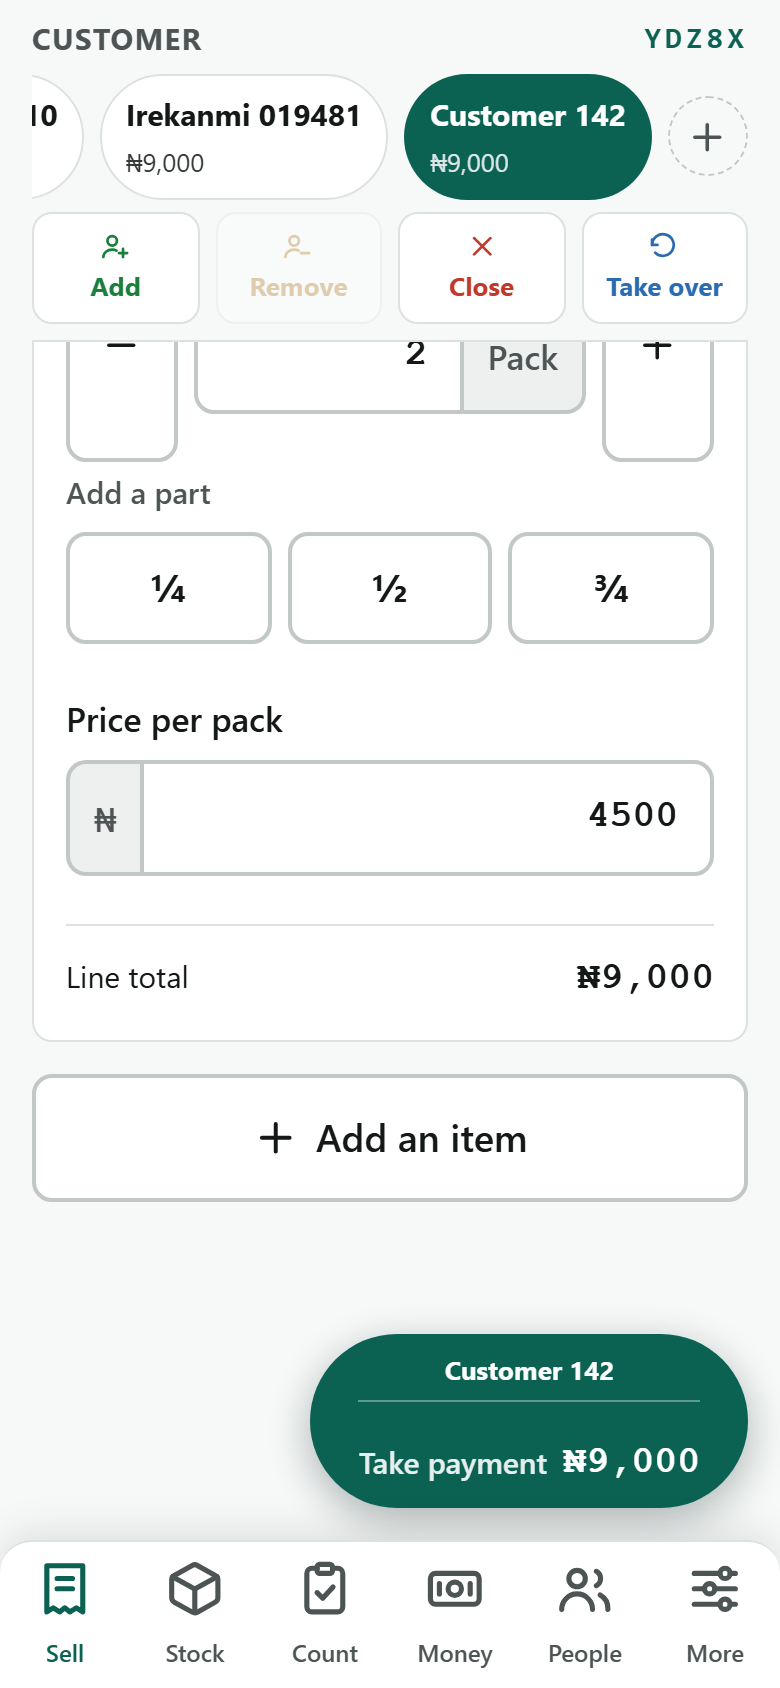
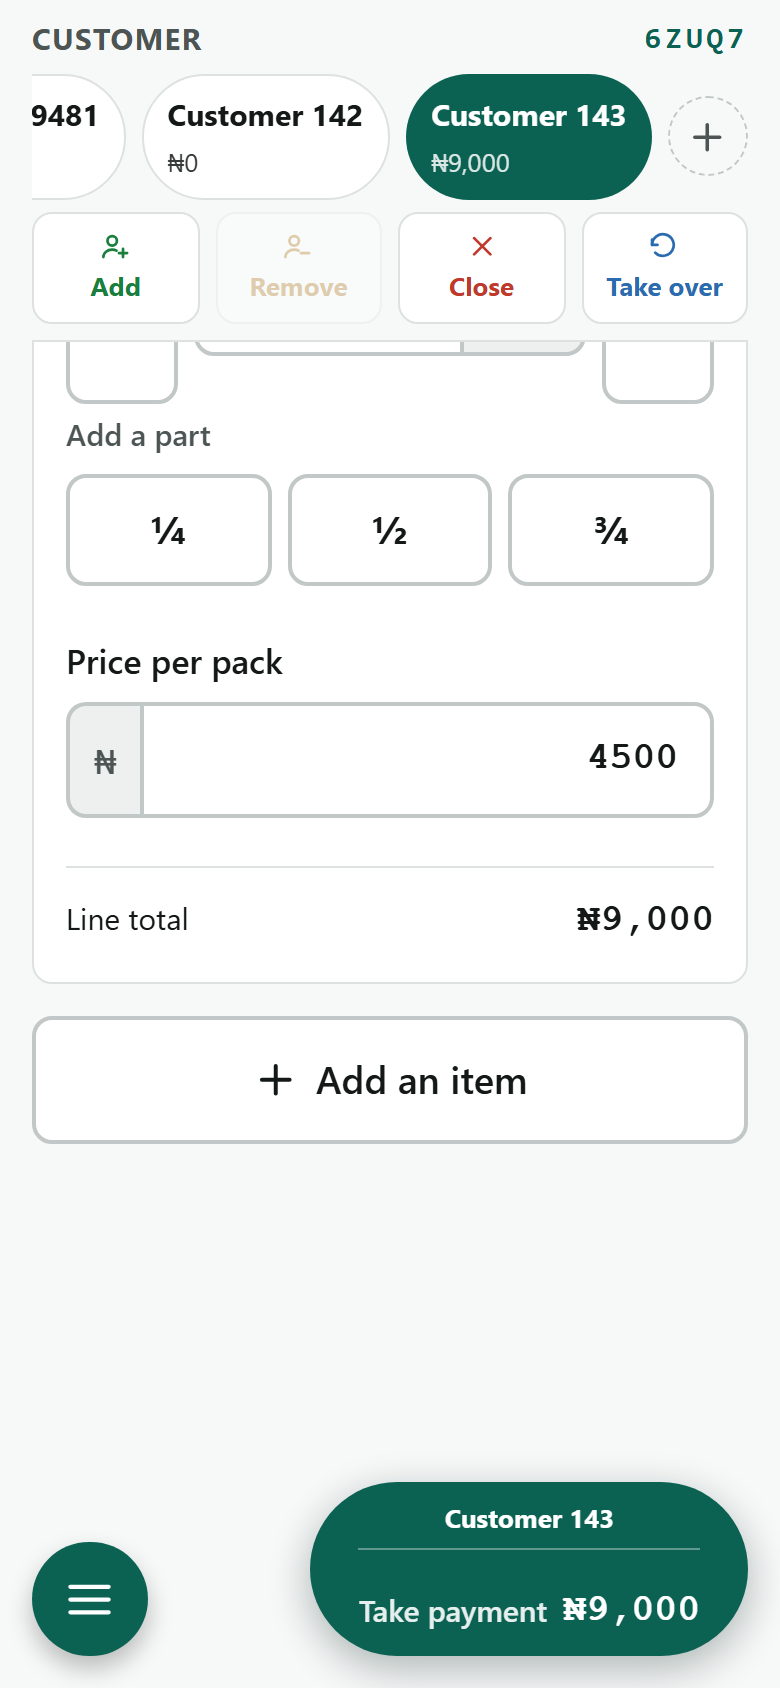
fix: every customer tap settles the page, not just the first
The first tap worked and none after it did. Three things were suspected and
measured before the real one turned up, which is worth recording because the
first two looked convincing:

  NOT a timing problem. Deferring by more frames changed nothing.

  NOT the bar changing height between its two states, though it does, and
  that is fixed here anyway — the four actions and the collapsed control are
  the same height now, so the receipt no longer shifts under the bar as the
  two swap.

  IT WAS THE HORIZONTAL SCROLL FIGHTING THE VERTICAL ONE. Centring the active
  tab used `scrollIntoView`, and that scrolls every scrollable ancestor, not
  just the row it was aimed at. Both run on the same change, so nudging the
  page sideways cancelled the settle starting at the same moment. Setting
  `scrollLeft` on the row touches the row and nothing else.

The settle itself now asks the browser rather than doing arithmetic:
`scroll-margin-top` is exactly the feature for an element that must clear
something sticky, and `scrollIntoView` then honours it, clamps at the ends of
the range, and copes with a smooth scroll already in flight. Computing a
target by hand meant reading the box, the bar and the scroller while React
was swapping a receipt — three moving parts, describing a layout that had
already been replaced.

And a short order now has room to be scrolled under the bar at all. A
two-line receipt bottomed out with its first row still halfway down the
[…]

diff --git a/src/app/(app)/main/sell-stack/sell-page/sell-page.tsx b/src/app/(app)/main/sell-stack/sell-page/sell-page.tsx
@@ -161,33 +161,28 @@ export default function SellPage() {
   /*
    * Put the order's first row back under the bar.
    *
-   * MEASURED AFTER THE RE-RENDER, which is the whole difficulty. Switching customers swaps the
-   * entire receipt, so measuring in the click handler reads the tab you just left — its box is
-   * still where it was, the sums come out to "already in place", and nothing moves. That is
-   * exactly what tapping a tab looked like: the four actions settled the page and the tabs did
-   * not, because only the tabs change what is being measured.
+   * THE BROWSER DOES THE ARITHMETIC. `scroll-margin-top` exists for exactly this — an element
+   * being scrolled to that must clear a sticky thing above it — and `scrollIntoView` then honours
+   * it, clamps at the ends of the range, and copes with a smooth scroll that is still in flight.
    *
-   * Two frames: the first lets React commit the new order, the second lets layout settle before
-   * anything is read from it.
+   * Computing a target by hand did not. It read the box, the bar and the scroller in one go, and
+   * every one of those is a moving part while React is swapping a receipt: the numbers came from a
+   * layout that had already been replaced. The symptom was an alternating one — the first tap
+   * worked, the second did nothing, the third worked — because each measurement was really
+   * describing the tab BEFORE it. Frame counting only moves that boundary around; asking the
+   * browser removes it.
    */
   const settlePage = useCallback(() => {
     requestAnimationFrame(() => {
-      requestAnimationFrame(() => {
-        const box = orderTopRef.current;
-        const body = box?.closest<HTMLElement>('.navstack-column-body');
-        if (!box || !body) return;
+      const box = orderTopRef.current;
+      const body = box?.closest<HTMLElement>('.navstack-column-body');
+      if (!box || !body) return;
 
-        // Against the bar's own height rather than a guessed number, so it stays right when the
-        // bar changes — it grows a row when the four actions collapse.
-        const bar = body.querySelector<HTMLElement>('[class*="CustomerTabs_bar"]');
-        const clearance = bar ? bar.getBoundingClientRect().height : 0;
-        const top = box.getBoundingClientRect().top - body.getBoundingClientRect().top;
-        const target = body.scrollTop + top - clearance;
-
-        // Nothing to do when it is already there — a smooth scroll of two pixels reads as a twitch.
-        if (Math.abs(target - body.scrollTop) < 4) return;
-        body.scrollTo({ top: Math.max(0, target), behavior: 'smooth' });
-      });
+      // Against the bar's own height rather than a guessed number, so it stays right when the bar
+      // changes — it grows a row when the four actions collapse.
+      const bar = body.querySelector<HTMLElement>('[class*="CustomerTabs_bar"]');
+      box.style.scrollMarginTop = `${Math.round(bar?.getBoundingClientRect().height ?? 0)}px`;
+      box.scrollIntoView({ behavior: 'smooth', block: 'start' });
     });
   }, []);
 
@@ -624,7 +619,7 @@ export default function SellPage() {
          * the items AND the button that adds to them, not the first row of a list whose top is
          * under the sticky bar.
          */
-        <div ref={orderTopRef}>
+        <div ref={orderTopRef} className={styles.orderBox}>
           {/* ── Lines ─────────────────────────────────────────────────────────── */}
           {activeOrder.lines.length > 0 && (
             <div className={styles.lines}>

diff --git a/src/components/sell/CustomerTabs.tsx b/src/components/sell/CustomerTabs.tsx
@@ -117,9 +117,20 @@ export function CustomerTabs({
     };
   }, [check, tabs.length, activeId]);
 
-  /** Brings the active tab back into the row, which is what the collapsed button is for. */
+  /*
+   * Brings the active tab back into the row — SIDEWAYS ONLY.
+   *
+   * `scrollIntoView` was used here and it scrolls every scrollable ancestor, not just this row. So
+   * centring a tab also nudged the page, and because both run on the same change it cancelled the
+   * vertical settle that was starting at the same moment: the first tap worked and every one after
+   * it did not. Setting `scrollLeft` touches this row and nothing else.
+   */
   const showActiveTab = useCallback(() => {
-    activeTabRef.current?.scrollIntoView({ behavior: 'smooth', block: 'nearest', inline: 'center' });
+    const row = rowRef.current;
+    const tab = activeTabRef.current;
+    if (!row || !tab) return;
+    const target = tab.offsetLeft - (row.clientWidth - tab.offsetWidth) / 2;
+    row.scrollTo({ left: Math.max(0, target), behavior: 'smooth' });
   }, []);
 
   /** The first and last tabs, for the controls either side of "Active order". */

diff --git a/src/app/(app)/main/sell-stack/sell-page/sell-page.module.css b/src/app/(app)/main/sell-stack/sell-page/sell-page.module.css
@@ -475,3 +475,19 @@
 .floatSpacer {
   height: calc(var(--touch-comfortable) + var(--space-5));
 }
+
+/*
+ * Room for a short order to be scrolled under the bar.
+ *
+ * The bar is pinned, and tapping a customer puts that customer's first row directly beneath it —
+ * which a long receipt can do and a two-line one cannot: the page bottoms out with the row still
+ * halfway down the screen. It looked like the scroll had failed on every other tap, and it had
+ * not; there was simply nothing left to scroll.
+ *
+ * Tall enough that any order can reach the top. The subtraction is the bar, the tab bar and the
+ * page's own bottom padding — approximate on purpose, because being a little generous costs a
+ * short scroll and being exact would mean measuring three moving things on every render.
+ */
+.orderBox {
+  min-height: calc(100dvh - 240px - var(--nav-height));
+}

diff --git a/src/components/sell/CustomerTabs.module.css b/src/components/sell/CustomerTabs.module.css
@@ -116,6 +116,20 @@
 
 /* ── The four ─────────────────────────────────────────────────────────────────────── */
 
+/*
+ * The two states of this row are the SAME HEIGHT.
+ *
+ * They swap as the tabs scroll — four actions when the active customer is in view, one control
+ * when it is not — and a bar that changes height as you scroll is a bar that shoves the receipt
+ * up and down under it. It also broke the settle: the page measures this bar to know how far to
+ * scroll, and measuring the short version a moment before the tall one rendered left every tap
+ * overshooting by exactly the difference.
+ */
+.actions,
+.jumpRow {
+  min-height: 56px;
+}
+
 .actions {
   display: flex;
   align-items: stretch;
